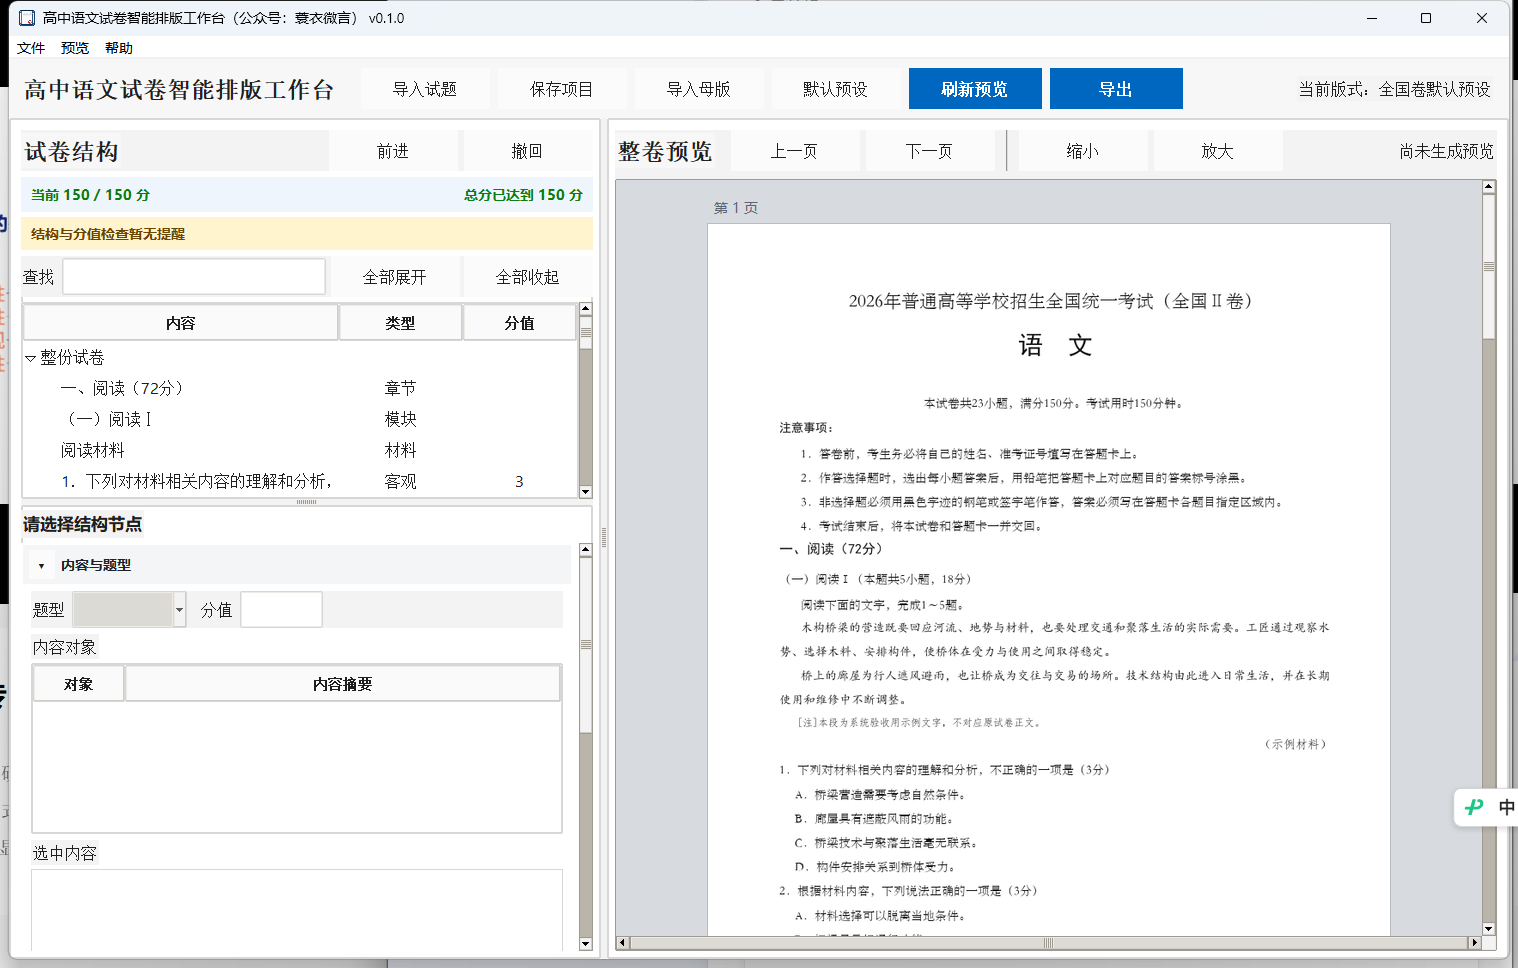
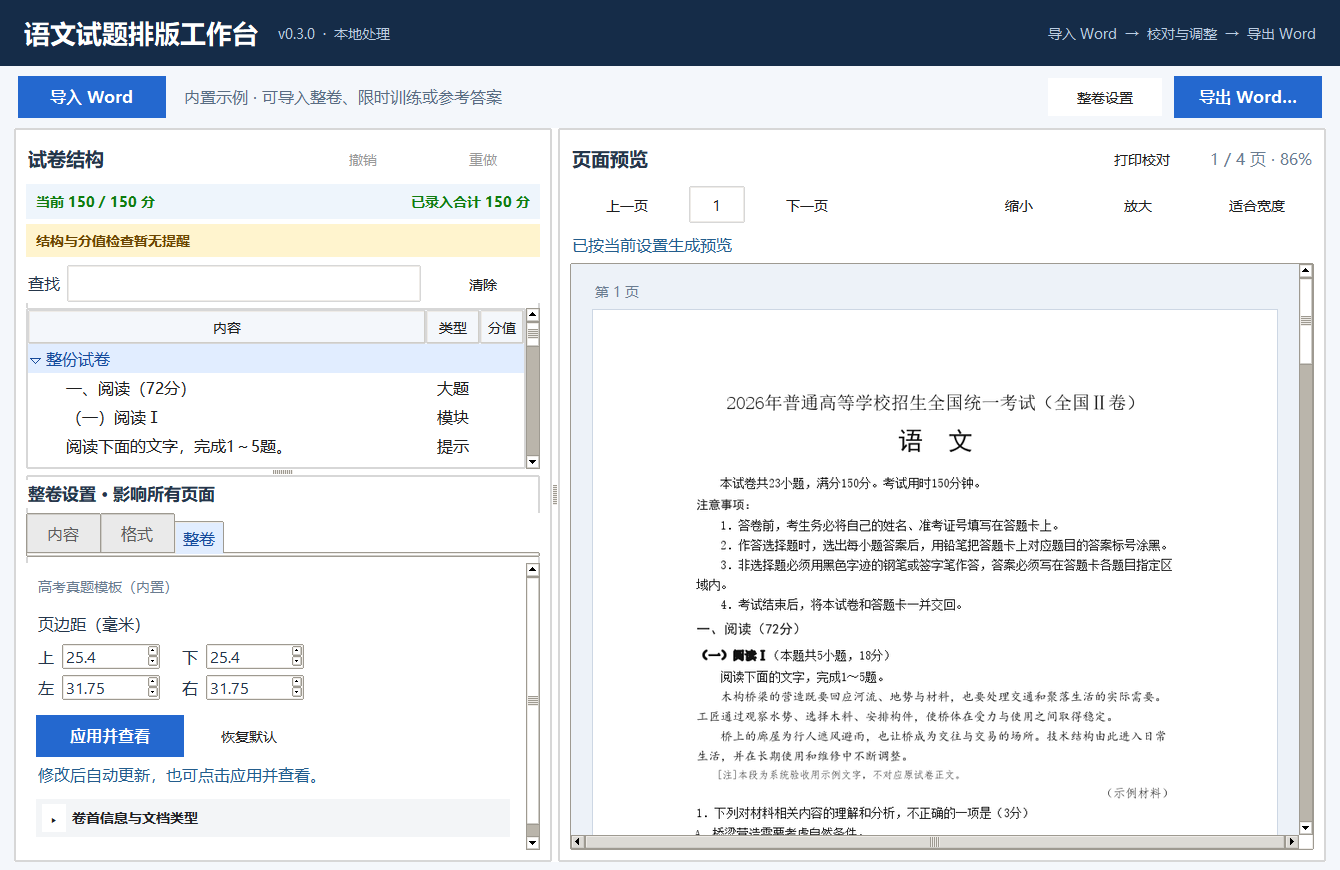
Show the new page count on first paint and document the verified workbench

diff --git a/tests/test_workbench_gui.py b/tests/test_workbench_gui.py
@@ -335,6 +335,13 @@ def test_new_global_edit_discards_queued_old_preview(app):
     assert '等待更新' in app.page_settings_status_var.get()
 
 
+def test_new_preview_immediately_reports_the_installed_page_count(app, tmp_path):
+    preview = app.document_editor
+    pages = preview_pages(tmp_path, "new-pages")
+    preview.set_preview_pages(pages)
+    assert f"/ {len(pages)} 页" in preview.status_variable.get()
+
+
 def test_page_counter_updates_while_editing_global_fields(app):
     preview = app.document_editor
     with patch.object(preview, 'focus_get', return_value=app.apply_page_settings_button):

diff --git a/app/workbench_tasks.py b/app/workbench_tasks.py
@@ -264,8 +264,7 @@ class WorkbenchTasks:
             self._settings_feedback = None
             self._preview_settings_feedback = None
         if feedback is None:
-            page = self.document_editor.current_page() + 1
-            self.document_editor.update_message_var.set(f"第 {page} 页 · 已显示当前修改")
+            self.document_editor.update_message_var.set("已按当前设置生成预览")
         document_kind = str(self.raw_exam.get("document_kind", "exam"))
         if document_kind == "exam_with_answer":
             self.status_var.set(

diff --git a/windows_launcher.py b/windows_launcher.py
@@ -249,7 +249,7 @@ def _run_startup_test(module: object, output: Path) -> int:
     def finish() -> None:
         if app._closing:
             return
-        if app._displayed_revision is None or not app.preview_pages:
+        if app._displayed_revision is None or not app.document_editor.preview_image_refs:
             if monotonic() - started >= 25:
                 failed("内置示例预览未能就绪")
             else:

diff --git a/app/read_only_preview.py b/app/read_only_preview.py
@@ -232,6 +232,8 @@ class ReadOnlyPreview(PageViewport):
         self._rendering = False
         self._last_surface_width = 0
         self._last_scrollregion = None
+        index = min(previous_view[0], len(paths) - 1) if previous_view and paths else 0
+        self._update_status(index)
         self._queue_layout_sync()
         if previous_view is not None:
             self._restore_page_position(previous_view)

diff --git a/README.md b/README.md
@@ -34,12 +34,7 @@
 
 自动回归覆盖导入、内容与格式编辑、草稿、预览、文件占用和DOCX输出。真实试卷原件不随源码分发；缺少这些原件时，相应本地集成测试会跳过。具体版本的验证范围见[更新记录](CHANGELOG.md)。
 
-<details>
-<summary>旧版界面示例（0.2.0已改为内容、格式、页面三个标签）</summary>
-
-![旧版软件界面](docs/software-interface.png)
-
-</details>
+![0.3.0 实际界面。左侧整卷设置可调整四项页边距，右侧显示快速预览和打印校对入口。](docs/software-interface.png)
 
 ## 软件能做什么
 

diff --git a/CHANGELOG.md b/CHANGELOG.md
@@ -3,7 +3,6 @@
 ## 0.3.0
 
 - 全卷、限时训练、参考答案统一按内容自然分页；旧草稿的目标页数和自动行距系数在打开时清除。整卷设置集中显示页边距。
-
 - 修复改字后同段图片、原文下划线及着重号可能遗漏，以及旧预览覆盖新修改的问题。
 - 导入期间锁定编辑并支持取消。更新安装走正常保存和关闭流程。
 - 草稿在完整写入后替换旧文件，保存图表资源并支持异常退出恢复。
